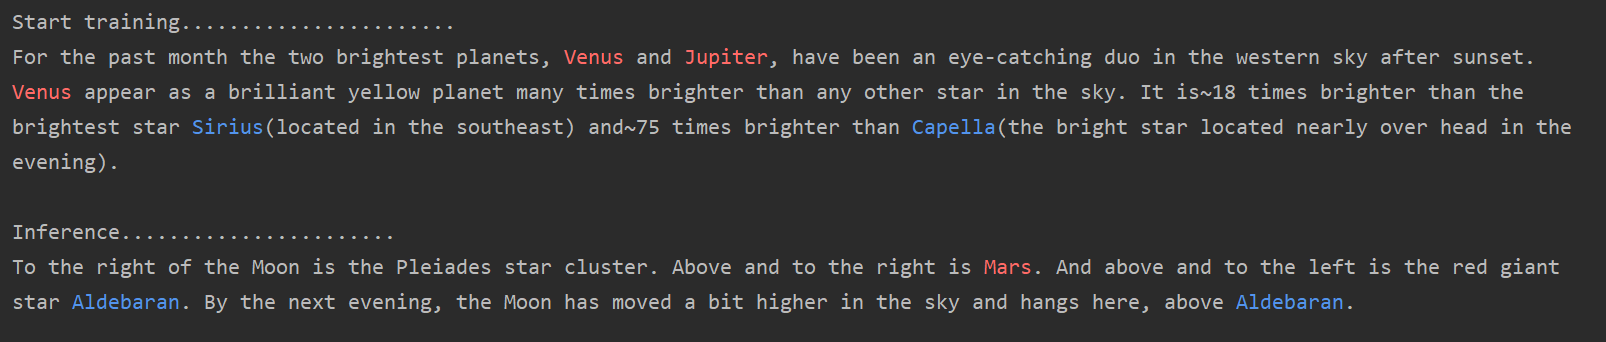
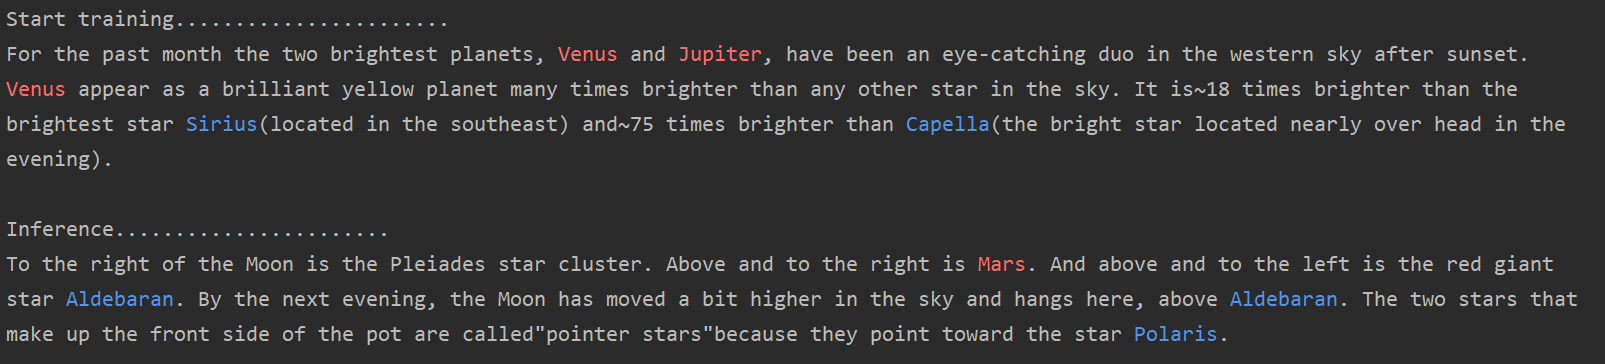
project init

diff --git a/InstaLearn.py b/InstaLearn.py
@@ -6,9 +6,66 @@ import sys
 import numpy as np
 
 
+def distance_matrix(matrix1, matrix2):
+    """
+    Calculate the distance matrix between 2 embedding matrix.
+
+    Args:
+        matrix1: (n1, d) NumPy array (a sequence embedding with n1 tokens, represented by a d hidden units BERT model)
+        matrix2: (n2, d) NumPy array (a sequence embedding with n2 tokens, represented by a d hidden units BERT model)
+    returns:
+        (n1, n2) Numpy array (indicates token wise cosine distance between these 2 sequence embedding.)
+    """
+    return 1 - sp.distance.cdist(matrix1, matrix2, 'cosine')
+
+
+def tokenize(sentence):
+    """
+    Naive tokenize (punctuation splitting, white space, etc.)
+    Should use word-piece tokenization in the future
+
+    Args:
+        sentence: string
+    returns:
+        list(string)
+    """
+    return re.sub('(?<! )(?=[.,!?()"\'])|(?<=[.,?()"\'])(?! )', r' ', sentence).split()
+
+
+def print_sen(sentence_tokenized, label_dict):
+    """
+    Visualize the sentence, using the Red color to identify the * prefix word, and use the blue color to identify the
+    ! prefix word.
+
+    Args:
+        sentence_tokenized: list(string)
+        label_dict: dict (set) (a dictionary which contain the indexes of the target words.)
+    returns:
+        None
+    """
+    length = 0
+    for i, w in enumerate(sentence_tokenized):
+        if length + len(w) > 130:
+            # Make sure not to print too long in one single line.
+            length = 0
+            sys.stdout.write('\n')
+        if length and w[0].isalnum() and sentence_tokenized[i - 1] not in "-'(\"":
+            # add white space if w is not punctuation and not the start of a line
+            w = ' ' + w
+        if i + 1 in label_dict['*']:
+            sys.stdout.write(colored(w, 'red'))
+        elif i + 1 in label_dict['!']:
+            sys.stdout.write(colored(w, 'blue'))
+        else:
+            sys.stdout.write(w)
+        length += len(w)
+
+    sys.stdout.write('\n')
+    sys.stdout.flush()
+
+
 class InstaLearn(object):
     def __init__(self, ip='localhost', port=5555, port_out=5556):
-        # self.model_dir = model_dir
         self.bertclient = BertClient(ip=ip, port=port, port_out=port_out)
         self.train_data = None
         self.target_inx = {'*': set(), '!': set()}
@@ -16,75 +73,90 @@ class InstaLearn(object):
         self.threshold = {'*': 0.9, '!': 0.9}
 
     def train(self, sentence):
-        # Tokenize (punctuation splitting, white space, etc.)
-        self.train_data = re.sub('(?<! )(?=[.,!?()"\'])|(?<=[.,?()"\'])(?! )', r' ', sentence).split()
+        """
+        Given a sentence, tokenize it, send it to the bert-service, get back the sequence
+        embedding representation of it, then calculate the inference threshold, save the
+        result in the class, at last visualize the sentence.
+        Args:
+            sentence: string
+
+        returns: None
+        """
+        print('\nStart training.......................')
+        self.train_data = tokenize(sentence)
         for i, s in enumerate(self.train_data):
             if s[0] in '*!' and len(s) > 1:
                 # Index should +1 because the BERT will add [CLS] at the beginning of the sentence
                 self.target_inx[s[0]].add(i + 1)
                 self.train_data[i] = s[1:]
-        # vec = self.bertclient.encode([self.train_data], is_tokenized=True)
         vec = self.bertclient.encode([[s.lower() for s in self.train_data]], is_tokenized=True)
         # Index length should +2 because the BERT will add [CLS] and [SEP] at
         # the beginning and end of the sentence
         self.train_embedding = vec[0][:len(self.train_data) + 2]
+        # Calculate the inference threshold.
         self.set_threshold()
-        print('\nStart training.......................')
-        self.print_sen(self.train_data, self.target_inx)
+        # Visualize the training data
+        print_sen(self.train_data, self.target_inx)
 
     def set_threshold(self):
-        distance_matrix = 1 - sp.distance.cdist(self.train_embedding, self.train_embedding, 'cosine')
+        """
+        Calculate and set the inference threshold. Basic idea is for every target word, first find the minimum cosine
+        distance between it and other target words, then find the maximum cosine distance between it and other
+        non-target words, at last average these 2 values.
+
+        Args:
+            None
+
+        returns:
+            None
+        """
+        dist_matrix = distance_matrix(self.train_embedding, self.train_embedding)
         for prefix in self.target_inx:
             target_distances = []
             nontarget_distances = []
             for tinx in self.target_inx[prefix]:
-
                 for i in range(len(self.train_embedding)):
                     if i in self.target_inx[prefix]:
                         # Distances between target words
-                        target_distances.append(distance_matrix[tinx][i])
+                        target_distances.append(dist_matrix[tinx][i])
                     else:
                         # Distances between target words and non-target words
-                        nontarget_distances.append(distance_matrix[tinx][i])
-                # calculate threshold: (min target word distance + max non-target word distance)/2
+                        nontarget_distances.append(dist_matrix[tinx][i])
+            # calculate threshold: (min target word distance + max non-target word distance)/2
             self.threshold[prefix] = (min(0.8, max(nontarget_distances)) + min(0.9, min(target_distances))) / 2
 
     def inference(self, sentence):
-        tokenized = re.sub('(?<! )(?=[.,!?()"\'])|(?<=[.,?()"\'])(?! )', r' ', sentence).split()
+        """
+        Given a sentence, tokenize it, send it to the bert-service, get back the sequence
+        embedding representation of it, then calculate the distance matrix between the train-embedding
+        and the inference-embedding, find the distances that is bigger than the threshold, visualize and
+        return the result
+
+        Args:
+            sentence: string
+
+        returns:
+            tokenized: list (string) (tokenized inference sentence)
+            inf_label: dict (set) (a dictionary which record the index of the words that are similar to the
+            target words in training sentence)
+        """
+        assert self.train_data
+        print('\nInference.......................')
+        tokenized = tokenize(sentence)
         inf_embedding = self.bertclient.encode([[s.lower() for s in tokenized]], is_tokenized=True)[0][
                         :len(tokenized) + 2]
-        inf_label = {"*": [], "!": []}
+        inf_label = {"*": set(), "!": set()}
 
-        distance_matrix = 1 - sp.distance.cdist(inf_embedding, self.train_embedding, 'cosine')
-        for i, word_distance in enumerate(distance_matrix):
+        dist_matrix = distance_matrix(inf_embedding, self.train_embedding)
+        for i, word_distance in enumerate(dist_matrix):
             nearest = np.argmax(word_distance)
             if nearest in self.target_inx['*'] and word_distance[nearest] > self.threshold['*']:
-                inf_label['*'].append(i)
+                inf_label['*'].add(i)
             if nearest in self.target_inx['!'] and word_distance[nearest] > self.threshold['!']:
-                inf_label['!'].append(i)
-        print('\nInference.......................')
-        self.print_sen(tokenized, inf_label)
+                inf_label['!'].add(i)
+
+        print_sen(tokenized, inf_label)
         return tokenized, inf_label
-
-    def print_sen(self, sentence_tokenized, label_dict):
-        length = 0
-        for i, w in enumerate(sentence_tokenized):
-            if length + len(w) > 130:
-                length = 0
-                sys.stdout.write('\n')
-            if length and w[0].isalnum() and sentence_tokenized[i - 1] not in "-'(\"":
-                # add white space if w is not punctuation
-                w = ' ' + w
-            if i + 1 in label_dict['*']:
-                sys.stdout.write(colored(w, 'red'))
-            elif i + 1 in label_dict['!']:
-                sys.stdout.write(colored(w, 'blue'))
-            else:
-                sys.stdout.write(w)
-            length += len(w)
-
-        sys.stdout.write('\n')
-        sys.stdout.flush()
 
 
 if __name__ == "__main__":

diff --git a/test_InstaLearn.py b/test_InstaLearn.py
@@ -10,9 +10,11 @@ def test_LocationandDrug():
         'I lived in *Munich last summer. *Germany has a relaxing, slow summer lifestyle. One night, I got food '
         'poisoning and couldn\'t find !Tylenol to make the pain go away, they insisted I take !aspirin instead.')
 
-    _, _ = il.inference(
+    _, inf_inx = il.inference(
         'When I lived in Paris last year, France was experiencing a recession. The night life was too fun, '
         'I developed an addiction to Adderall and Ritalin.')
+
+    assert inf_inx == {'*': {5, 9}, '!': {27, 29}}
 def test_DinosaurandPeriod():
     """
     test case for dinosaur and Period
@@ -23,10 +25,11 @@ def test_DinosaurandPeriod():
         'and possibly ancestral) group *Prosauropoda. By the Late !Jurassic (150 million years ago), *sauropods had '
         'become widespread (especially the *diplodocids and *brachiosaurids).')
 
-    _, _ = il.inference(
+    _, inf_inx = il.inference(
         'In the Late Cretaceous, the hadrosaurs, ankylosaurs, and ceratopsians experienced success in '
         'Western North America and eastern Asia. Tyrannosaurs were present in Asia. Pachycephalosaurs were also '
         'present in both North America and Asia.')
+    assert inf_inx == {'*': {7, 9, 12, 23, 29}, '!': {4}}
 
 def test_PlanetandStar():
     """
@@ -39,11 +42,12 @@ def test_PlanetandStar():
         'in the sky. It is ~18 times brighter than the brightest star !Sirius (located in the southeast) and ~75 '
         'times brighter than !Capella (the bright star located nearly over head in the evening).')
 
-    _, _ = il.inference(
+    _, inf_inx = il.inference(
         'To the right of the Moon is the Pleiades star cluster. Above and to the right is Mars. And above and to the '
         'left is the red giant star Aldebaran. By the next evening, the Moon has moved a bit higher in the sky and '
-        'hangs here, above Aldebaran.')
-
+        'hangs here, above Aldebaran. The two stars that make up the front side of the pot are called "pointer stars" '
+        'because they point toward the star Polaris.')
+    assert inf_inx == {'*': {19}, '!': {32, 54, 80}}
 
 if __name__ == '__main__':
     print("----------------------------------------------------------------------")

diff --git a/README.md b/README.md
@@ -16,7 +16,7 @@ pip install bert-serving-client  # client, independent of `bert-serving-server`
 Note that the server MUST be running on **Python >= 3.5** with **Tensorflow >= 1.10** (*one-point-ten*). Again, the server does not support Python 2!
 
 #### 2. Download a Pre-trained BERT Model
-Download a model listed below, then uncompress the zip file into some folder, say `/tmp/uncased_L-12_H-768_A-12/`. In my program, I use [BERT-Base, Uncased](https://storage.googleapis.com/bert_models/2018_10_18/uncased_L-12_H-768_A-12.zip) for the text, but if you have a powerful hardware, strongly recommend you to use [BERT-Large, Uncased (Whole Word Masking)](https://storage.googleapis.com/bert_models/2019_05_30/wwm_uncased_L-24_H-1024_A-16.zip)
+Download a model listed below, then uncompress the zip file into some folder, say `/tmp/uncased_L-12_H-768_A-12/`. In my program, I use [BERT-Base, Uncased](https://storage.googleapis.com/bert_models/2018_10_18/uncased_L-12_H-768_A-12.zip) for the test, but if you have a powerful hardware, strongly recommend you to use [BERT-Large, Uncased (Whole Word Masking)](https://storage.googleapis.com/bert_models/2019_05_30/wwm_uncased_L-24_H-1024_A-16.zip)
 
 <details>
  <summary>List of released pretrained BERT models (click to expand...)</summary>
@@ -77,8 +77,23 @@ Output:
 
 Training sentence: `For the past month the two brightest planets, *Venus and *Jupiter, have been an eye-catching duo in the western sky after sunset. *Venus appear as a brilliant yellow planet many times brighter than any other star in the sky. It is ~18 times brighter than the brightest star !Sirius (located in the southeast) and ~75 times brighter than !Capella (the bright star located nearly over head in the evening).`
 
-Inference sentence: `To the right of the Moon is the Pleiades star cluster. Above and to the right is Mars. And above and to the left is the red giant star Aldebaran. By the next evening, the Moon has moved a bit higher in the sky and hangs here, above Aldebaran.`
+Inference sentence: `To the right of the Moon is the Pleiades star cluster. Above and to the right is Mars. And above and to the left is the red giant star Aldebaran. By the next evening, the Moon has moved a bit higher in the sky and hangs here, above Aldebaran. The two stars that make up the front side of the pot are called "pointer stars" because they point toward the star Polaris.`
 
 Output:
 
 ![image](https://github.com/epcilon/InstaLearn/blob/master/images/4.png)
+
+#### Use run InstaLearn
+One may also start the service on one (GPU) machine and call it from another (CPU) machine as follows:
+
+```python
+# on another CPU machine
+from InstaLearn import InstaLearn
+il = InstaLearn(ip='xx.xx.xx.xx')  # ip address of the GPU machine
+il.train('The *cat is playing the !ball.')
+il.inference('The dog is tracing the frisbee')
+```
+
+Note that you only need `pip install -U bert-serving-client` in this case, the server side is not required. You may also [call the service via HTTP requests.](https://github.com/hanxiao/bert-as-service#using-bert-as-service-to-serve-http-requests-in-json)
+
+
